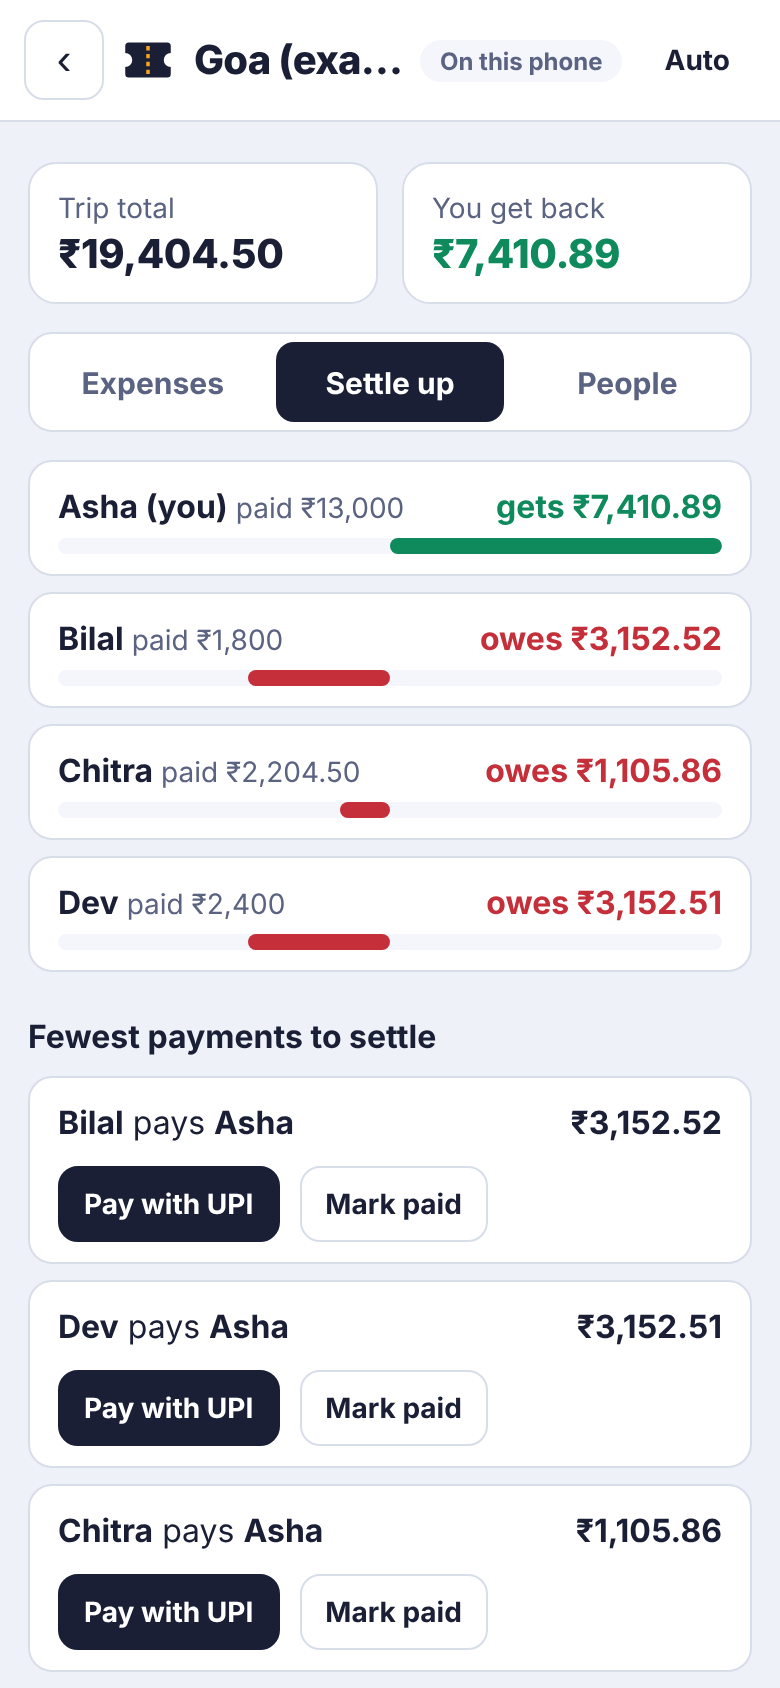
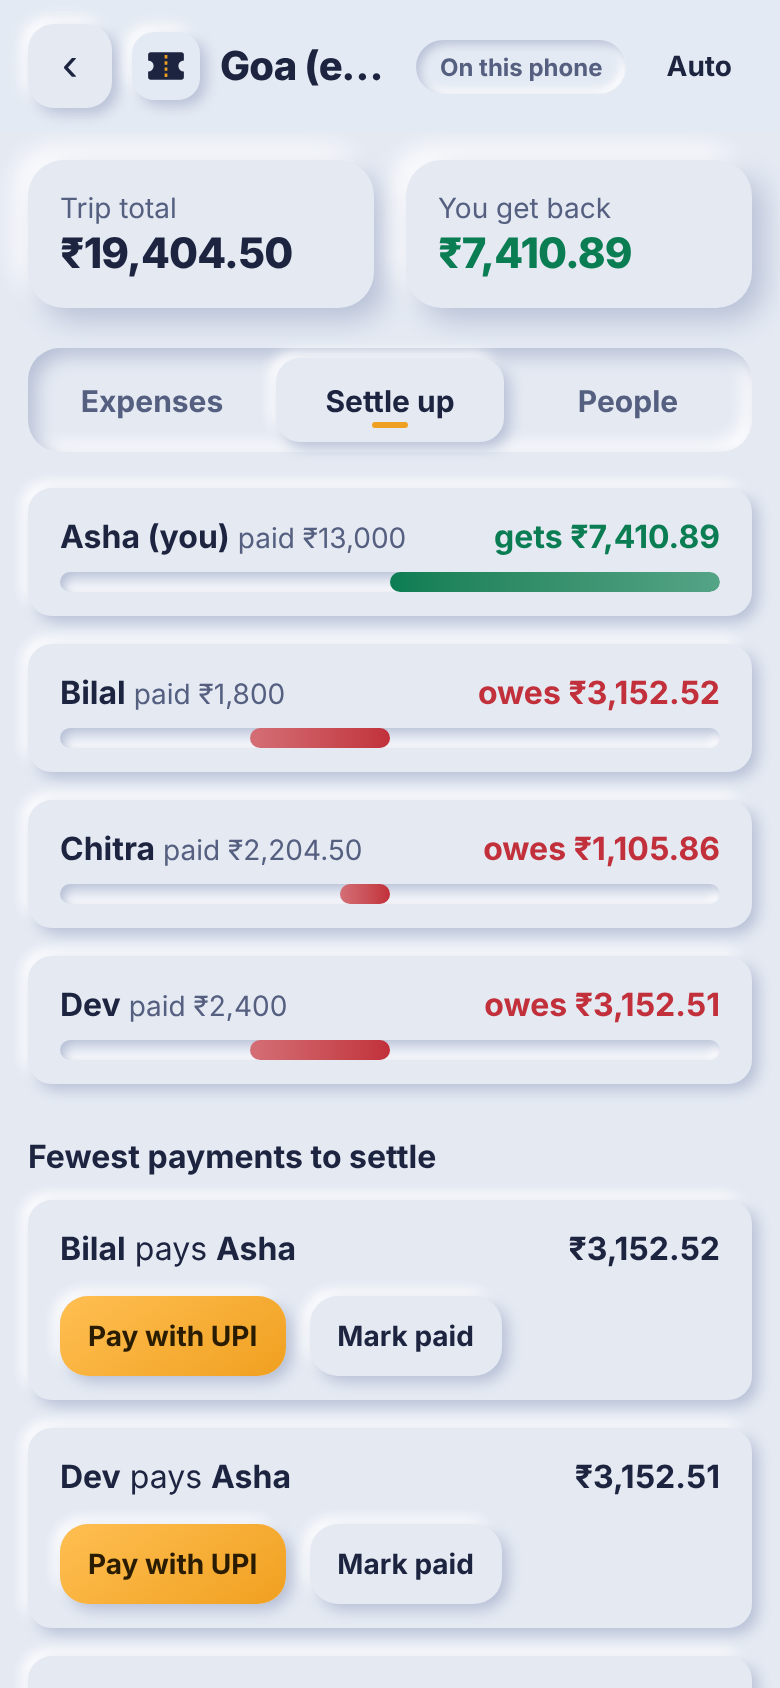
Neumorphic redesign: soft raised and pressed surfaces, smooth motion, responsive sheet dialogs

diff --git a/web/style.css b/web/style.css
@@ -1,119 +1,197 @@
-:root{--bg:#eef1f7;--card:#ffffff;--ink:#1a1f36;--muted:#5b6382;--line:#d8ddea;--accent:#f5a524;--accent-ink:#1a1f36;--btn:#1a1f36;--btn-ink:#ffffff;--pos:#0e8a5c;--neg:#c42f3a;--field:#ffffff;--focus:#2f5bd8;--soft:#f4f6fb;--sans:system-ui,-apple-system,"Segoe UI",Roboto,sans-serif}
-@media (prefers-color-scheme:dark){:root:not([data-theme=light]){--bg:#0d1020;--card:#171a2e;--ink:#e9ebf7;--muted:#9da3c2;--line:#2b3050;--accent:#ffb84a;--accent-ink:#1a1405;--btn:#e9ebf7;--btn-ink:#11142a;--pos:#47d39b;--neg:#ff7d86;--field:#11142a;--focus:#8eb0ff;--soft:#1e2238}}
-:root[data-theme=dark]{--bg:#0d1020;--card:#171a2e;--ink:#e9ebf7;--muted:#9da3c2;--line:#2b3050;--accent:#ffb84a;--accent-ink:#1a1405;--btn:#e9ebf7;--btn-ink:#11142a;--pos:#47d39b;--neg:#ff7d86;--field:#11142a;--focus:#8eb0ff;--soft:#1e2238;color-scheme:dark}
+/* Trip Split: soft "neumorphic" surfaces. Everything is the same clay-like colour,
+   shaped only by a light and a dark shadow. Text and focus rings stay high-contrast. */
+:root{
+  --bg:#e4e9f2;--ink:#1d2440;--muted:#555f80;--accent:#f0a020;--accent2:#ffbf52;--accent-ink:#2a1c00;
+  --pos:#0b7d53;--neg:#c1303b;--focus:#2f5bd8;
+  --hi:#ffffff;--lo:#b7c0d6;--field:#e4e9f2;
+  --out:6px 6px 14px var(--lo),-6px -6px 14px var(--hi);
+  --out-s:3px 3px 7px var(--lo),-3px -3px 7px var(--hi);
+  --in:inset 4px 4px 9px var(--lo),inset -4px -4px 9px var(--hi);
+  --in-s:inset 2px 2px 5px var(--lo),inset -2px -2px 5px var(--hi);
+  --r:18px;--r-s:12px;
+  --sans:"Inter",system-ui,-apple-system,"Segoe UI",Roboto,sans-serif;
+  --ease:cubic-bezier(.22,.8,.3,1)
+}
+@media (prefers-color-scheme:dark){:root:not([data-theme=light]){
+  --bg:#1d2133;--ink:#e8ebf8;--muted:#a3abca;--accent:#ffb347;--accent2:#ffcf7a;--accent-ink:#241700;
+  --pos:#4fd8a0;--neg:#ff8089;--focus:#93b4ff;--hi:#272c44;--lo:#121522;--field:#1d2133}}
+:root[data-theme=dark]{
+  --bg:#1d2133;--ink:#e8ebf8;--muted:#a3abca;--accent:#ffb347;--accent2:#ffcf7a;--accent-ink:#241700;
+  --pos:#4fd8a0;--neg:#ff8089;--focus:#93b4ff;--hi:#272c44;--lo:#121522;--field:#1d2133;color-scheme:dark}
 :root[data-theme=light]{color-scheme:light}
-*{box-sizing:border-box}
-html{-webkit-text-size-adjust:100%}
-body{margin:0;background:var(--bg);color:var(--ink);font:16px/1.5 var(--sans);overflow-x:clip;padding-bottom:env(safe-area-inset-bottom)}
+*{box-sizing:border-box;-webkit-tap-highlight-color:transparent}
+html{-webkit-text-size-adjust:100%;scroll-behavior:smooth}
+body{margin:0;background:var(--bg);color:var(--ink);font:16px/1.5 var(--sans);overflow-x:clip;padding-bottom:env(safe-area-inset-bottom);transition:background .4s,color .4s}
 [hidden]{display:none!important}
-.skip{position:absolute;left:-999px;top:0;background:var(--btn);color:var(--btn-ink);padding:8px 12px;z-index:50}.skip:focus{left:8px;top:8px}
-:focus-visible{outline:3px solid var(--focus);outline-offset:2px;border-radius:6px}
+.skip{position:absolute;left:-999px;top:0;background:var(--ink);color:var(--bg);padding:8px 12px;z-index:50;border-radius:0 0 10px 0}.skip:focus{left:0}
+:focus-visible{outline:3px solid var(--focus);outline-offset:3px;border-radius:12px}
 .sr{position:absolute;width:1px;height:1px;overflow:hidden;clip:rect(0 0 0 0);white-space:nowrap}
-.muted{color:var(--muted)}.small{font-size:14px}.mt{margin-top:12px}.grow{flex:1}.center{text-align:center;justify-content:center}
+.muted{color:var(--muted)}.small{font-size:14px}.mt{margin-top:14px}.grow{flex:1}.center{text-align:center;justify-content:center}
 a{color:var(--focus)}
-.bar{position:sticky;top:0;z-index:20;display:flex;align-items:center;gap:8px;padding:10px 12px;background:var(--card);border-bottom:1px solid var(--line)}
-.brand{display:flex;align-items:center;gap:9px;font:800 20px var(--sans);letter-spacing:-.02em;margin-right:auto;min-width:0}
+
+/* ---------- entrance motion ---------- */
+@keyframes rise{from{opacity:0;transform:translateY(14px)}to{opacity:1;transform:none}}
+@keyframes pop{from{opacity:0;transform:scale(.94) translateY(10px)}to{opacity:1;transform:none}}
+@keyframes fade{from{opacity:0}to{opacity:1}}
+@keyframes pulse{0%{box-shadow:0 0 0 0 color-mix(in srgb,var(--pos) 55%,transparent)}70%,100%{box-shadow:0 0 0 7px transparent}}
+@keyframes toastin{from{opacity:0;transform:translate(-50%,16px) scale(.96)}to{opacity:1;transform:translate(-50%,0)}}
+#home,#trip,#p-exp,#p-bal,#p-ppl{animation:rise .45s var(--ease) both}
+.trips>*,#expList>*,#netList>*,#settleList>*,#peopleList>*,#payList>*,.totals>*{animation:rise .5s var(--ease) both}
+.trips>:nth-child(2),#expList>:nth-child(2),#netList>:nth-child(2),#settleList>:nth-child(2),#peopleList>:nth-child(2),.totals>:nth-child(2){animation-delay:.05s}
+.trips>:nth-child(3),#expList>:nth-child(3),#netList>:nth-child(3),#settleList>:nth-child(3),#peopleList>:nth-child(3){animation-delay:.1s}
+.trips>:nth-child(4),#expList>:nth-child(4),#netList>:nth-child(4),#settleList>:nth-child(4),#peopleList>:nth-child(4){animation-delay:.15s}
+.trips>:nth-child(n+5),#expList>:nth-child(n+5),#netList>:nth-child(n+5),#settleList>:nth-child(n+5),#peopleList>:nth-child(n+5){animation-delay:.2s}
+
+/* ---------- header ---------- */
+.bar{position:sticky;top:0;z-index:20;display:flex;align-items:center;gap:10px;padding:12px 14px;background:color-mix(in srgb,var(--bg) 88%,transparent);backdrop-filter:blur(10px);-webkit-backdrop-filter:blur(10px)}
+.brand{display:flex;align-items:center;gap:10px;font:800 20px var(--sans);letter-spacing:-.02em;margin-right:auto;min-width:0}
 .brand span{overflow:hidden;text-overflow:ellipsis;white-space:nowrap;min-width:0}
-.mark{width:28px;height:28px;color:var(--ink);flex:none}
-.pill{font:700 12px var(--sans);padding:3px 10px;border-radius:99px;background:var(--soft);color:var(--muted);white-space:nowrap}
-.pill.live{background:color-mix(in srgb,var(--pos) 16%,transparent);color:var(--pos)}
-.pill.live::before{content:"";display:inline-block;width:7px;height:7px;border-radius:50%;background:var(--pos);margin-right:6px;vertical-align:1px}
-.pill.off{background:color-mix(in srgb,var(--neg) 14%,transparent);color:var(--neg)}
-.wrap{max-width:600px;margin:0 auto;padding:16px 14px 110px}
-.hello{font:800 clamp(26px,6vw,34px)/1.1 var(--sans);letter-spacing:-.025em;margin:8px 0 8px}
-h2{font:750 18px var(--sans);margin:0 0 10px}
-h2.sub{margin:22px 0 10px;font-size:16px}
-.btn{display:inline-flex;align-items:center;justify-content:center;gap:6px;min-height:44px;padding:8px 16px;border-radius:10px;border:1px solid var(--line);background:var(--field);color:var(--ink);font:650 15px var(--sans);cursor:pointer;text-decoration:none;transition:transform .1s}
-.btn:active{transform:translateY(1px)}
-.btn.small{min-height:38px;padding:6px 12px;font-size:14px}
-.btn.primary{background:var(--btn);border-color:var(--btn);color:var(--btn-ink)}
-.btn.ghost{border-color:transparent;background:transparent}
+.mark{width:34px;height:34px;padding:6px;border-radius:11px;box-shadow:var(--out-s);color:var(--ink);flex:none}
+.pill{font:700 12px var(--sans);padding:6px 12px;flex:none;border-radius:99px;box-shadow:var(--in-s);color:var(--muted);white-space:nowrap}
+.pill.live{color:var(--pos)}
+.pill.live::before{content:"";display:inline-block;width:8px;height:8px;border-radius:50%;background:var(--pos);margin-right:7px;vertical-align:0;animation:pulse 2s infinite}
+.pill.off{color:var(--neg)}
+.wrap{max-width:620px;margin:0 auto;padding:12px 18px 120px}
+.hello{font:800 clamp(28px,7vw,38px)/1.08 var(--sans);letter-spacing:-.03em;margin:10px 0 10px}
+h2{font:750 18px var(--sans);margin:0 0 12px}
+h2.sub{margin:26px 0 12px;font-size:16px}
+
+/* ---------- buttons ---------- */
+.btn,.icon-btn,.chip,.seg button{border:0;background:var(--bg);color:var(--ink);box-shadow:var(--out-s);cursor:pointer;transition:box-shadow .2s var(--ease),transform .2s var(--ease),color .2s,background .2s}
+.btn{display:inline-flex;align-items:center;justify-content:center;gap:6px;min-height:46px;padding:8px 20px;border-radius:14px;font:700 15px var(--sans);text-decoration:none}
+.btn:hover,.icon-btn:hover,.chip:hover,.seg button:hover{transform:translateY(-1px)}
+.btn:active,.icon-btn:active,.chip:active,.seg button:active{transform:none;box-shadow:var(--in-s)}
+.btn.small{min-height:40px;padding:6px 14px;font-size:14px}
+.btn.primary{background:linear-gradient(145deg,var(--accent2),var(--accent));color:var(--accent-ink);box-shadow:var(--out-s)}
+.btn.primary:active{box-shadow:inset 3px 3px 7px rgba(0,0,0,.22),inset -2px -2px 6px rgba(255,255,255,.28)}
+.btn.ghost{background:none;box-shadow:none;padding:6px 10px}.btn.ghost:active{box-shadow:var(--in-s)}
 .btn.danger{color:var(--neg)}
-.btn.armed{background:var(--neg);border-color:var(--neg);color:#fff}
-.btn[disabled]{opacity:.5;cursor:default}
-.icon-btn{width:40px;height:40px;border-radius:10px;border:1px solid var(--line);background:var(--field);color:var(--ink);font-size:22px;line-height:1;cursor:pointer;flex:none}
-.row{display:flex;gap:8px;align-items:center;flex-wrap:wrap}
+.btn.armed{background:var(--neg);color:#fff}
+.btn[disabled]{opacity:.5;cursor:default;transform:none}
+.icon-btn{width:42px;height:42px;border-radius:13px;font-size:24px;line-height:1;flex:none;display:grid;place-items:center;padding:0}
+.row{display:flex;gap:10px;align-items:center;flex-wrap:wrap}
 .row input{flex:1;min-width:10rem}
-.stack{display:flex;flex-direction:column;gap:8px}
-.grid2{display:grid;grid-template-columns:repeat(2,minmax(0,1fr));gap:0 12px}
-.field{margin:0 0 12px;min-width:0}
-label,.lbl{display:block;font:650 14px var(--sans);margin-bottom:4px}
-input,select{width:100%;min-height:44px;padding:9px 11px;border-radius:10px;border:1px solid var(--line);background:var(--field);color:var(--ink);font:16px var(--sans)}
-input[type=checkbox]{width:20px;height:20px;min-height:0;accent-color:var(--btn)}
-.fb{font-size:14px;margin:4px 0 0;min-height:1px}.fb.bad{color:var(--neg)}.fb.ok{color:var(--pos)}
-.note{background:var(--soft);border:1px solid var(--line);border-radius:12px;padding:10px 14px;margin-bottom:14px;font-size:15px}
-.note.bad{border-color:var(--neg);color:var(--neg)}
-/* the ticket */
-.cardbox,.ticket{position:relative;background:var(--card);border:1px solid var(--line);border-radius:16px;padding:16px;margin:14px 0}
-.trips{display:grid;gap:12px;margin:18px 0}
-.ticket{display:grid;grid-template-columns:1fr auto;gap:2px 14px;margin:0;cursor:pointer;text-align:left;color:inherit;font:inherit;width:100%;overflow:hidden}
-.ticket::before,.ticket::after{content:"";position:absolute;right:104px;width:18px;height:18px;border-radius:50%;background:var(--bg);border:1px solid var(--line)}
-.ticket::before{top:-10px}.ticket::after{bottom:-10px}
+.stack{display:flex;flex-direction:column;gap:10px}
+.grid2{display:grid;grid-template-columns:repeat(2,minmax(0,1fr));gap:0 14px}
+.field{margin:0 0 14px;min-width:0}
+label,.lbl{display:block;font:700 14px var(--sans);margin:0 0 6px 4px}
+
+/* ---------- inputs: pressed into the surface ---------- */
+input,select{width:100%;min-height:48px;padding:10px 14px;border-radius:14px;border:2px solid transparent;background:var(--field);color:var(--ink);font:16px var(--sans);box-shadow:var(--in);transition:border-color .2s,box-shadow .2s}
+input::placeholder{color:var(--muted);opacity:.75}
+input:focus,select:focus{outline:none;border-color:var(--focus)}
+input[type=checkbox]{width:22px;height:22px;min-height:0;padding:0;accent-color:var(--accent);box-shadow:none;appearance:auto}
+.fb{font-size:14px;margin:4px 0 0 4px;min-height:1px}.fb.bad{color:var(--neg)}.fb.ok{color:var(--pos)}
+.note{border-radius:var(--r-s);box-shadow:var(--in-s);padding:12px 16px;margin-bottom:16px;font-size:15px}
+.note.bad{color:var(--neg);font-weight:600}
+
+/* ---------- cards ---------- */
+.cardbox,.ticket{position:relative;background:var(--bg);border-radius:var(--r);padding:20px;margin:18px 0;box-shadow:var(--out);border:0}
+.trips{display:grid;gap:18px;margin:22px 0}
+.ticket{display:grid;grid-template-columns:1fr auto;gap:2px 14px;margin:0;cursor:pointer;text-align:left;color:inherit;font:inherit;width:100%;overflow:hidden;transition:transform .25s var(--ease),box-shadow .25s var(--ease)}
+.ticket:hover{transform:translateY(-3px)}
+.ticket:active{transform:none;box-shadow:var(--in)}
+.ticket::before,.ticket::after{content:"";position:absolute;right:104px;width:20px;height:20px;border-radius:50%;background:var(--bg);box-shadow:var(--in-s)}
+.ticket::before{top:-11px}.ticket::after{bottom:-11px}
 .ticket .tname{font:750 18px var(--sans);overflow:hidden;text-overflow:ellipsis;white-space:nowrap}
 .ticket .tmeta{color:var(--muted);font-size:14px}
-.ticket .tright{grid-row:1/3;grid-column:2;width:90px;text-align:right;border-left:2px dashed var(--line);padding-left:12px;display:flex;flex-direction:column;justify-content:center}
+.ticket .tright{grid-row:1/3;grid-column:2;width:92px;text-align:right;border-left:2px dashed color-mix(in srgb,var(--muted) 40%,transparent);padding-left:12px;display:flex;flex-direction:column;justify-content:center}
 .ticket .tright b{font-size:16px}
 .pos{color:var(--pos)}.neg{color:var(--neg)}
-.totals{display:grid;grid-template-columns:1fr 1fr;gap:12px;margin:4px 0 14px}
-.totals div{background:var(--card);border:1px solid var(--line);border-radius:14px;padding:12px 14px;display:flex;flex-direction:column}
-.totals b{font:800 24px var(--sans);letter-spacing:-.01em}
-.tabs{display:grid;grid-template-columns:repeat(3,1fr);background:var(--card);border:1px solid var(--line);border-radius:12px;padding:4px;gap:4px;margin-bottom:14px;position:sticky;top:62px;z-index:10}
-.tabs button{min-height:40px;border:0;border-radius:9px;background:none;color:var(--muted);font:700 15px var(--sans);cursor:pointer}
-.tabs button[aria-selected=true]{background:var(--btn);color:var(--btn-ink)}
-.day{font:700 13px var(--sans);color:var(--muted);margin:16px 2px 6px}
-.exp{display:grid;grid-template-columns:auto 1fr auto;gap:2px 12px;align-items:center;width:100%;text-align:left;background:var(--card);border:1px solid var(--line);border-radius:14px;padding:12px 14px;margin-bottom:8px;color:inherit;font:inherit;cursor:pointer}
-.exp .ico{grid-row:1/3;width:40px;height:40px;border-radius:10px;background:var(--soft);display:grid;place-items:center;font-size:19px}
+.totals{display:grid;grid-template-columns:1fr 1fr;gap:16px;margin:6px 0 20px}
+.totals div{background:var(--bg);border-radius:var(--r);box-shadow:var(--out);padding:14px 16px;display:flex;flex-direction:column}
+.totals b{font:800 26px var(--sans);letter-spacing:-.02em}
+
+/* ---------- tabs: a trough with a raised key ---------- */
+.tabs{display:grid;grid-template-columns:repeat(3,1fr);background:var(--bg);box-shadow:var(--in);border-radius:16px;padding:5px;gap:5px;margin-bottom:18px;position:sticky;top:68px;z-index:10}
+.tabs button{min-height:42px;border:0;border-radius:12px;background:none;color:var(--muted);font:700 15px var(--sans);cursor:pointer;transition:all .3s var(--ease)}
+.tabs button:hover{color:var(--ink)}
+.tabs button[aria-selected=true]{background:var(--bg);color:var(--ink);box-shadow:var(--out-s)}
+.tabs button[aria-selected=true]::after{content:"";display:block;width:18px;height:3px;border-radius:3px;background:var(--accent);margin:1px auto -4px}
+
+/* ---------- expenses ---------- */
+.day{font:700 13px var(--sans);color:var(--muted);margin:20px 4px 10px}
+.exp{display:grid;grid-template-columns:auto 1fr auto;gap:2px 14px;align-items:center;width:100%;text-align:left;background:var(--bg);border:0;border-radius:var(--r);box-shadow:var(--out-s);padding:14px 16px;margin-bottom:14px;color:inherit;font:inherit;cursor:pointer;transition:transform .25s var(--ease),box-shadow .25s var(--ease)}
+.exp:hover{transform:translateY(-2px);box-shadow:var(--out)}
+.exp:active{transform:none;box-shadow:var(--in-s)}
+.exp .ico{grid-row:1/3;width:44px;height:44px;border-radius:14px;box-shadow:var(--in-s);display:grid;place-items:center;font-size:20px}
 .exp .et{font-weight:700;overflow:hidden;text-overflow:ellipsis;white-space:nowrap}
 .exp .em{font-size:14px;color:var(--muted);overflow:hidden;text-overflow:ellipsis;white-space:nowrap}
 .exp .ea{grid-row:1;grid-column:3;font-weight:800;text-align:right}
 .exp .ey{grid-row:2;grid-column:3;font-size:13px;text-align:right}
-.empty{text-align:center;color:var(--muted);padding:30px 10px}
-.nets{display:grid;gap:8px}
-.net{display:grid;grid-template-columns:1fr auto;gap:4px 10px;background:var(--card);border:1px solid var(--line);border-radius:12px;padding:10px 14px}
-.net .bar2{grid-column:1/3;height:8px;border-radius:5px;background:var(--soft);position:relative;overflow:hidden}
-.net .bar2 i{position:absolute;top:0;bottom:0;border-radius:5px}
-.net .bar2 i.pos{left:50%;background:var(--pos)}.net .bar2 i.neg{right:50%;background:var(--neg)}
-.settle{display:flex;align-items:center;gap:10px;flex-wrap:wrap;background:var(--card);border:1px solid var(--line);border-radius:12px;padding:10px 14px;margin-bottom:8px}
+.empty{text-align:center;color:var(--muted);padding:34px 12px;border-radius:var(--r);box-shadow:var(--in)}
+
+/* ---------- balances ---------- */
+.nets{display:grid;gap:14px}
+.net{display:grid;grid-template-columns:1fr auto;gap:6px 10px;background:var(--bg);border-radius:var(--r-s);box-shadow:var(--out-s);padding:12px 16px}
+.net .bar2{grid-column:1/3;height:10px;border-radius:6px;box-shadow:var(--in-s);position:relative;overflow:hidden}
+.net .bar2 i{position:absolute;top:0;bottom:0;border-radius:6px;transition:width .7s var(--ease)}
+.net .bar2 i.pos{left:50%;background:linear-gradient(90deg,var(--pos),color-mix(in srgb,var(--pos) 70%,#fff))}
+.net .bar2 i.neg{right:50%;background:linear-gradient(270deg,var(--neg),color-mix(in srgb,var(--neg) 70%,#fff))}
+.settle{display:flex;align-items:center;gap:12px;flex-wrap:wrap;background:var(--bg);border-radius:var(--r-s);box-shadow:var(--out-s);padding:12px 16px;margin-bottom:14px}
 .settle .who{flex:1 1 12rem}
 .settle b{white-space:nowrap}
-.pay{display:flex;gap:10px;align-items:center;padding:8px 2px;border-bottom:1px solid var(--line);font-size:15px}
+.pay{display:flex;gap:10px;align-items:center;padding:10px 4px;font-size:15px}
+.pay+.pay{box-shadow:0 -1px 0 color-mix(in srgb,var(--muted) 22%,transparent)}
 .pay span{flex:1}
-.person{display:flex;align-items:center;gap:10px;background:var(--card);border:1px solid var(--line);border-radius:12px;padding:10px 12px;margin-bottom:8px;flex-wrap:wrap}
-.avatar{width:36px;height:36px;border-radius:50%;display:grid;place-items:center;font-weight:800;color:#fff;flex:none}
-.small-av{width:28px;height:28px;font-size:13px;background:var(--soft);color:var(--ink)}
+
+/* ---------- people ---------- */
+.person{display:flex;align-items:center;gap:12px;background:var(--bg);border-radius:var(--r-s);box-shadow:var(--out-s);padding:12px 14px;margin-bottom:14px;flex-wrap:wrap}
+.avatar{width:40px;height:40px;border-radius:50%;display:grid;place-items:center;font-weight:800;color:#fff;flex:none;box-shadow:var(--out-s)}
+.small-av{width:30px;height:30px;font-size:13px;background:var(--bg);color:var(--ink)}
 .person .pinfo{flex:1;min-width:8rem}
 .person .pinfo small{display:block;color:var(--muted)}
-.chips{display:flex;flex-wrap:wrap;gap:8px}
-.chip{min-height:40px;padding:6px 14px;border-radius:99px;border:1px solid var(--line);background:var(--field);color:var(--ink);font:650 15px var(--sans);cursor:pointer}
-.chip[aria-pressed=true]{background:var(--btn);color:var(--btn-ink);border-color:var(--btn)}
-.invite{display:flex;gap:16px;align-items:center;flex-wrap:wrap}
-.qr{width:140px;height:140px;background:#fff;border-radius:10px;padding:6px;flex:none}
-.qr.big{width:220px;height:220px;margin:6px auto}
+.chips{display:flex;flex-wrap:wrap;gap:12px}
+.chip{min-height:42px;padding:6px 18px;border-radius:99px;font:700 15px var(--sans)}
+.chip[aria-pressed=true],.seg button[aria-checked=true]{box-shadow:var(--in-s),inset 0 0 0 2px var(--accent);color:var(--ink);background:color-mix(in srgb,var(--accent) 30%,var(--bg))}
+.invite{display:flex;gap:18px;align-items:center;flex-wrap:wrap}
+.qr{width:144px;height:144px;background:#fff;border-radius:14px;padding:8px;flex:none;box-shadow:var(--out-s)}
+.qr.big{width:230px;height:230px;margin:8px auto}
 .qr path{fill:#000}
-.fab{position:fixed;right:max(16px,calc(50% - 300px + 16px));bottom:calc(18px + env(safe-area-inset-bottom));z-index:15;min-height:54px;padding:0 22px;border-radius:99px;border:0;background:var(--accent);color:var(--accent-ink);font:800 16px var(--sans);box-shadow:0 8px 24px rgba(0,0,0,.25);cursor:pointer}
-dialog{width:min(560px,100vw - 16px);max-height:min(92vh,900px);padding:0;border:1px solid var(--line);border-radius:18px;background:var(--card);color:var(--ink);overflow:hidden}
-dialog[open]{display:flex;flex-direction:column}
+
+/* ---------- floating action ---------- */
+.fab{position:fixed;right:max(18px,calc(50% - 310px + 18px));bottom:calc(20px + env(safe-area-inset-bottom));z-index:15;min-height:56px;padding:0 26px;border-radius:99px;border:0;background:linear-gradient(145deg,var(--accent2),var(--accent));color:var(--accent-ink);font:800 16px var(--sans);box-shadow:8px 8px 18px var(--lo),-4px -4px 12px var(--hi);cursor:pointer;transition:transform .25s var(--ease),box-shadow .25s var(--ease);animation:pop .6s var(--ease) .2s both}
+.fab:hover{transform:translateY(-3px)}
+.fab:active{transform:scale(.97);box-shadow:inset 3px 3px 8px rgba(0,0,0,.25)}
+
+/* ---------- dialogs ---------- */
+dialog{width:min(580px,100vw - 20px);max-height:min(92vh,920px);padding:0;border:0;border-radius:24px;background:var(--bg);color:var(--ink);overflow:hidden;box-shadow:14px 14px 34px var(--lo),-8px -8px 24px var(--hi)}
+dialog[open]{display:flex;flex-direction:column;animation:pop .35s var(--ease)}
 dialog form{display:flex;flex-direction:column;min-height:0;flex:1}
-dialog::backdrop{background:rgba(8,10,25,.55)}
-.dhead{display:flex;align-items:center;justify-content:space-between;padding:14px 16px;border-bottom:1px solid var(--line)}
+dialog::backdrop{background:rgba(20,26,50,.45);backdrop-filter:blur(4px);animation:fade .3s}
+.dhead{display:flex;align-items:center;justify-content:space-between;padding:16px 20px}
 .dhead h2{margin:0}
-.dbody{padding:14px 16px;overflow:auto;flex:1;min-height:0}
-.dfoot{display:flex;gap:8px;padding:12px 16px;border-top:1px solid var(--line);align-items:center}
-.seg{display:flex;flex-wrap:wrap;gap:6px}
-.seg button{min-height:38px;padding:6px 12px;border-radius:99px;border:1px solid var(--line);background:var(--field);color:var(--ink);font:650 14px var(--sans);cursor:pointer}
-.seg button[aria-checked=true]{background:var(--btn);color:var(--btn-ink);border-color:var(--btn)}
-.mrow{display:grid;grid-template-columns:auto 1fr 7.5rem;gap:10px;align-items:center;padding:6px 0;border-bottom:1px solid var(--line)}
+.dbody{padding:6px 20px 16px;overflow:auto;flex:1;min-height:0}
+.dfoot{display:flex;gap:12px;padding:14px 20px 18px;align-items:center}
+.seg{display:flex;flex-wrap:wrap;gap:12px}
+.seg button{min-height:40px;padding:6px 16px;border-radius:99px;font:700 14px var(--sans)}
+.mrow{display:grid;grid-template-columns:auto 1fr 7.5rem;gap:12px;align-items:center;padding:8px 0}
 .mrow label{margin:0;font-weight:600}
-.mrow input:not([type=checkbox]){min-height:40px;text-align:right}
-.line{border:1px solid var(--line);border-radius:12px;padding:10px;margin-bottom:10px}
+.mrow input:not([type=checkbox]){min-height:42px;text-align:right}
+.line{border-radius:var(--r-s);box-shadow:var(--out-s);padding:12px;margin-bottom:14px}
 .line .row input{min-width:0}
 .line .lname{flex:2}.line .lprice{flex:1;max-width:8rem;text-align:right}
-.line .chips{margin-top:8px}.line .chip{min-height:34px;padding:4px 11px;font-size:14px}
-.owed{background:var(--soft);border-radius:12px;padding:10px 12px;margin-top:12px;font-size:15px}
+.line .chips{margin-top:10px;gap:10px}.line .chip{min-height:36px;padding:4px 14px;font-size:14px}
+.owed{box-shadow:var(--in);border-radius:var(--r-s);padding:12px 16px;margin-top:14px;font-size:15px}
 .owed:empty{display:none}
 .owed div{display:flex;justify-content:space-between;padding:2px 0}
-.owed .tot{border-top:1px solid var(--line);margin-top:4px;padding-top:6px;font-weight:800}
-.foot{margin-top:30px;text-align:center}
-.toast{position:fixed;left:50%;bottom:90px;transform:translateX(-50%);max-width:92vw;background:var(--btn);color:var(--btn-ink);padding:11px 18px;border-radius:12px;font-weight:650;box-shadow:0 8px 28px rgba(0,0,0,.3);z-index:60}
-@media (max-width:480px){.grid2{grid-template-columns:1fr}.mrow{grid-template-columns:auto 1fr 6.5rem}.totals b{font-size:20px}}
-@media (prefers-reduced-motion:reduce){*{transition:none!important}}
+.owed .tot{box-shadow:0 -1px 0 color-mix(in srgb,var(--muted) 25%,transparent);margin-top:6px;padding-top:8px;font-weight:800}
+.foot{margin-top:34px;text-align:center}
+.toast{position:fixed;left:50%;bottom:96px;transform:translateX(-50%);width:max-content;max-width:min(92vw,420px);text-align:center;background:var(--bg);color:var(--ink);padding:12px 22px;border-radius:99px;font-weight:700;box-shadow:var(--out);z-index:60;animation:toastin .35s var(--ease)}
+
+@media (max-width:480px){
+  .grid2{grid-template-columns:1fr}
+  .mrow{grid-template-columns:auto 1fr 6.5rem}
+  .totals b{font-size:21px}
+  .wrap{padding:8px 14px 120px}
+  .cardbox{padding:16px}
+  dialog{width:100vw;max-height:94vh;margin:auto auto 0;border-radius:24px 24px 0 0}
+  dialog[open]{animation:rise .35s var(--ease)}
+}
+@media (min-width:900px){
+  .wrap{max-width:680px;padding-top:24px}
+  .fab{right:max(24px,calc(50% - 340px))}
+}
+@media (prefers-reduced-motion:reduce){
+  *,*::before,*::after{animation:none!important;transition:none!important;scroll-behavior:auto!important}
+}
